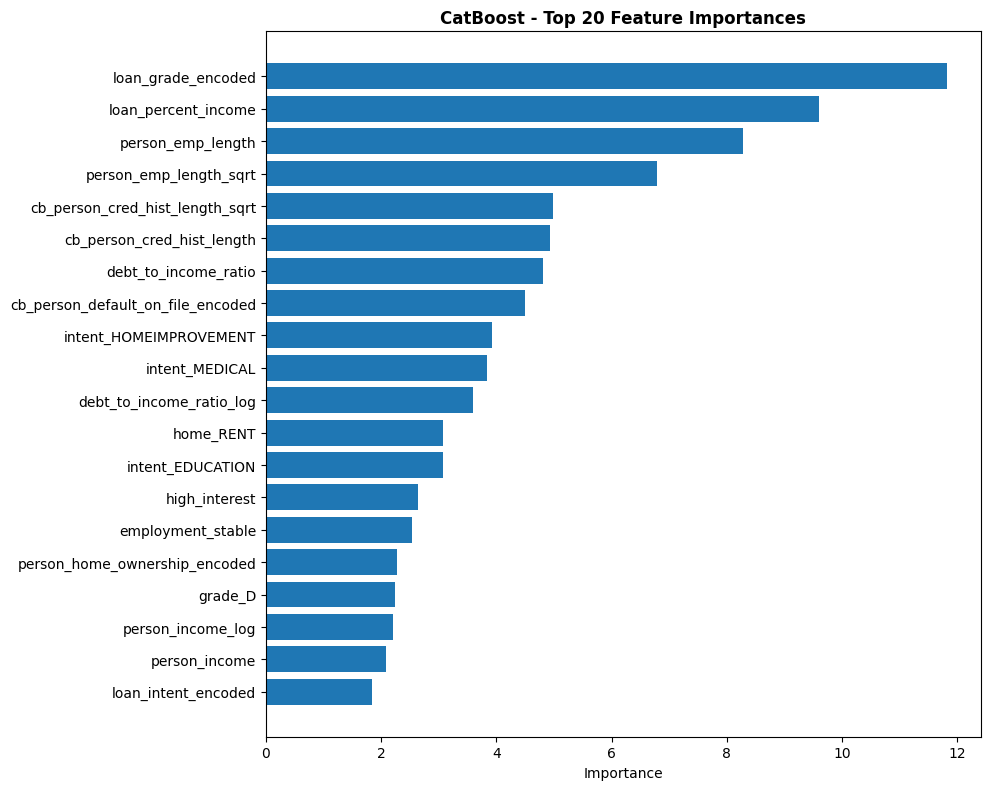
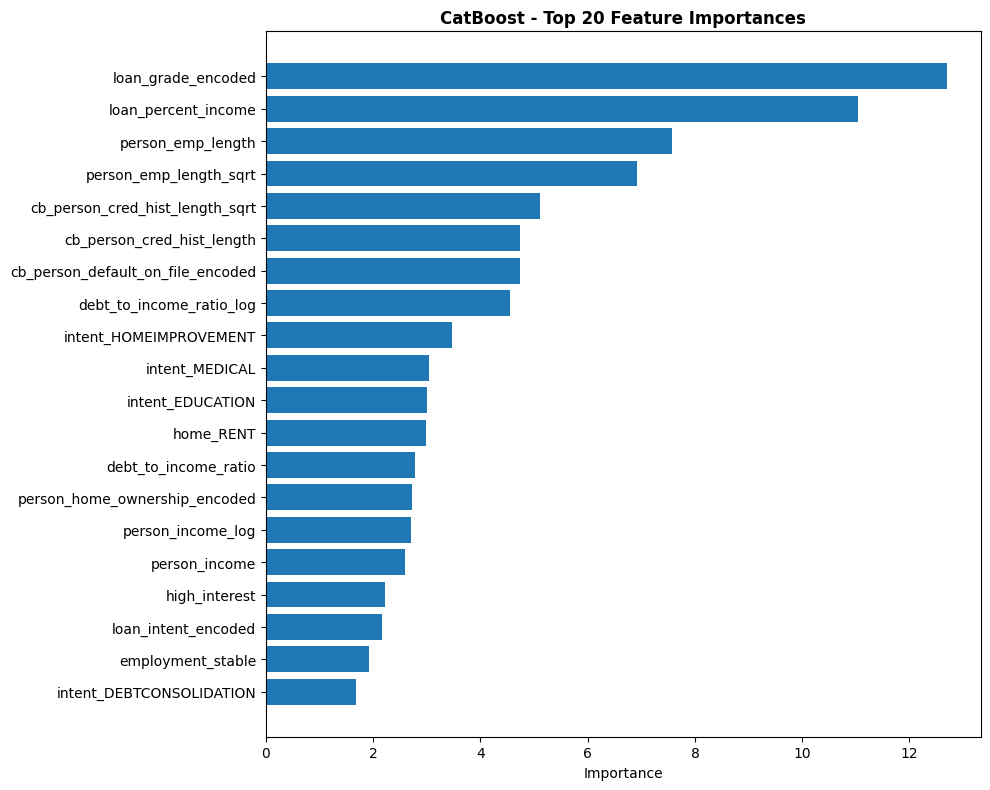
feat: generate traditional ML model visualizations

diff --git a/src/models/visualize_ml_models.py b/src/models/visualize_ml_models.py
@@ -1,0 +1,251 @@
+#!/usr/bin/env python
+"""
+Generate visualizations for traditional ML models (LightGBM, CatBoost, Ensemble)
+Creates plots showing model performance and feature importance
+"""
+
+import pickle
+import warnings
+
+import matplotlib.pyplot as plt
+import numpy as np
+import pandas as pd
+import seaborn as sns
+from imblearn.over_sampling import SMOTE
+from sklearn.metrics import (
+    confusion_matrix,
+    precision_recall_curve,
+    roc_auc_score,
+    roc_curve,
+)
+from sklearn.model_selection import train_test_split
+
+from src.config import IMAGES_ML_DIR, TRAIN_CSV
+from src.models.catboost_model import LoanPredictionSystem as CatBoostSystem
+from src.models.ensemble_model import LoanPredictionEnsemble
+from src.models.lightgbm_model import LoanPredictionSystem as LightGBMSystem
+
+warnings.filterwarnings("ignore")
+
+# Ensure output directory exists
+IMAGES_ML_DIR.mkdir(parents=True, exist_ok=True)
+
+print("=" * 70)
+print("Traditional ML Model Visualizations")
+print("=" * 70)
+print(f"Output directory: {IMAGES_ML_DIR}\n")
+
+# Load training data
+df = pd.read_csv(TRAIN_CSV)
+print(f"Loaded training data: {df.shape}\n")
+
+
+def plot_feature_importance(model, feature_names, model_name, top_n=20):
+    """Plot feature importance for tree-based models"""
+    if hasattr(model, "feature_importances_"):
+        importances = model.feature_importances_
+        indices = np.argsort(importances)[::-1][:top_n]
+
+        plt.figure(figsize=(10, 8))
+        plt.title(f"{model_name} - Top {top_n} Feature Importances", fontweight="bold")
+        plt.barh(range(top_n), importances[indices], align="center")
+        plt.yticks(range(top_n), [feature_names[i] for i in indices])
+        plt.xlabel("Importance")
+        plt.gca().invert_yaxis()
+        plt.tight_layout()
+        filename = f"{model_name.lower().replace(' ', '_')}_feature_importance.png"
+        plt.savefig(IMAGES_ML_DIR / filename, dpi=100, bbox_inches="tight")
+        plt.close()
+        print(f"✓ Saved: {filename}")
+
+
+def plot_roc_curve(y_true, y_pred_proba, model_name):
+    """Plot ROC curve"""
+    fpr, tpr, _ = roc_curve(y_true, y_pred_proba)
+    roc_auc = roc_auc_score(y_true, y_pred_proba)
+
+    plt.figure(figsize=(8, 6))
+    plt.plot(fpr, tpr, color="darkorange", lw=2, label=f"ROC curve (AUC = {roc_auc:.4f})")
+    plt.plot([0, 1], [0, 1], color="navy", lw=2, linestyle="--", label="Random")
+    plt.xlim([0.0, 1.0])
+    plt.ylim([0.0, 1.05])
+    plt.xlabel("False Positive Rate")
+    plt.ylabel("True Positive Rate")
+    plt.title(f"{model_name} - ROC Curve", fontweight="bold")
+    plt.legend(loc="lower right")
+    plt.grid(True, alpha=0.3)
+    plt.tight_layout()
+    filename = f"{model_name.lower().replace(' ', '_')}_roc_curve.png"
+    plt.savefig(IMAGES_ML_DIR / filename, dpi=100, bbox_inches="tight")
+    plt.close()
+    print(f"✓ Saved: {filename}")
+
+
+def plot_precision_recall_curve(y_true, y_pred_proba, model_name):
+    """Plot Precision-Recall curve"""
+    precision, recall, _ = precision_recall_curve(y_true, y_pred_proba)
+
+    plt.figure(figsize=(8, 6))
+    plt.plot(recall, precision, color="blue", lw=2)
+    plt.xlabel("Recall")
+    plt.ylabel("Precision")
+    plt.title(f"{model_name} - Precision-Recall Curve", fontweight="bold")
+    plt.grid(True, alpha=0.3)
+    plt.tight_layout()
+    filename = f"{model_name.lower().replace(' ', '_')}_pr_curve.png"
+    plt.savefig(IMAGES_ML_DIR / filename, dpi=100, bbox_inches="tight")
+    plt.close()
+    print(f"✓ Saved: {filename}")
+
+
+def plot_confusion_matrix(y_true, y_pred, model_name):
+    """Plot confusion matrix"""
+    cm = confusion_matrix(y_true, y_pred)
+
+    plt.figure(figsize=(8, 6))
+    sns.heatmap(
+        cm,
+        annot=True,
+        fmt="d",
+        cmap="Blues",
+        xticklabels=["Denied", "Approved"],
+        yticklabels=["Denied", "Approved"],
+    )
+    plt.title(f"{model_name} - Confusion Matrix", fontweight="bold")
+    plt.ylabel("Actual")
+    plt.xlabel("Predicted")
+    plt.tight_layout()
+    filename = f"{model_name.lower().replace(' ', '_')}_confusion_matrix.png"
+    plt.savefig(IMAGES_ML_DIR / filename, dpi=100, bbox_inches="tight")
+    plt.close()
+    print(f"✓ Saved: {filename}")
+
+
+# 1. LightGBM Visualizations
+print("\n[1/3] Generating LightGBM visualizations...")
+lgbm_system = LightGBMSystem()
+X = lgbm_system.prepare_features(df, fit=True)
+y = df["loan_status"]
+X_train, X_val, y_train, y_val = train_test_split(
+    X, y, test_size=0.2, random_state=42, stratify=y
+)
+X_train_scaled = lgbm_system.scaler.fit_transform(X_train)
+X_val_scaled = lgbm_system.scaler.transform(X_val)
+
+smote = SMOTE(random_state=42, sampling_strategy=0.5)
+X_train_scaled, y_train = smote.fit_resample(X_train_scaled, y_train)
+
+# Initialize and train the model
+from lightgbm import LGBMClassifier
+lgbm_system.model = LGBMClassifier(
+    n_estimators=200,
+    max_depth=7,
+    learning_rate=0.05,
+    random_state=42,
+    verbose=-1,
+)
+lgbm_system.model.fit(X_train_scaled, y_train)
+y_pred = lgbm_system.model.predict(X_val_scaled)
+y_pred_proba = lgbm_system.model.predict_proba(X_val_scaled)[:, 1]
+
+plot_feature_importance(lgbm_system.model, lgbm_system.feature_columns, "LightGBM")
+plot_roc_curve(y_val, y_pred_proba, "LightGBM")
+plot_precision_recall_curve(y_val, y_pred_proba, "LightGBM")
+plot_confusion_matrix(y_val, y_pred, "LightGBM")
+
+# 2. CatBoost Visualizations
+print("\n[2/3] Generating CatBoost visualizations...")
+catboost_system = CatBoostSystem()
+X = catboost_system.prepare_features(df, fit=True)
+y = df["loan_status"]
+X_train_cb, X_val_cb, y_train_cb, y_val_cb = train_test_split(
+    X, y, test_size=0.2, random_state=42, stratify=y
+)
+X_train_scaled_cb = catboost_system.scaler.fit_transform(X_train_cb)
+X_val_scaled_cb = catboost_system.scaler.transform(X_val_cb)
+
+smote = SMOTE(random_state=42, sampling_strategy=0.5)
+X_train_scaled_cb, y_train_cb = smote.fit_resample(X_train_scaled_cb, y_train_cb)
+
+# Initialize and train the model
+from catboost import CatBoostClassifier
+catboost_system.model = CatBoostClassifier(
+    iterations=200,
+    depth=7,
+    learning_rate=0.05,
+    random_state=42,
+    verbose=False,
+)
+catboost_system.model.fit(X_train_scaled_cb, y_train_cb, verbose=False)
+y_pred_cb = catboost_system.model.predict(X_val_scaled_cb)
+y_pred_proba_cb = catboost_system.model.predict_proba(X_val_scaled_cb)[:, 1]
+
+plot_feature_importance(catboost_system.model, catboost_system.feature_columns, "CatBoost")
+plot_roc_curve(y_val_cb, y_pred_proba_cb, "CatBoost")
+plot_precision_recall_curve(y_val_cb, y_pred_proba_cb, "CatBoost")
+plot_confusion_matrix(y_val_cb, y_pred_cb, "CatBoost")
+
+# 3. Ensemble Model Comparison
+print("\n[3/3] Generating Ensemble comparison visualization...")
+ensemble_system = LoanPredictionEnsemble()
+ensemble_system.train(str(TRAIN_CSV), use_smote=True)
+
+# Use the already prepared validation set from LightGBM
+lgbm_proba = y_pred_proba
+cb_proba = y_pred_proba_cb
+
+# Train XGBoost for comparison
+from xgboost import XGBClassifier
+xgb_model = XGBClassifier(
+    n_estimators=200,
+    max_depth=7,
+    learning_rate=0.05,
+    random_state=42,
+    eval_metric='logloss'
+)
+xgb_model.fit(X_train_scaled, y_train)
+xgb_proba = xgb_model.predict_proba(X_val_scaled)[:, 1]
+
+ensemble_proba = (lgbm_proba + cb_proba + xgb_proba) / 3
+
+# Plot comparison of all models
+plt.figure(figsize=(10, 6))
+fpr_lgbm, tpr_lgbm, _ = roc_curve(y_val, lgbm_proba)
+fpr_cb, tpr_cb, _ = roc_curve(y_val_cb, cb_proba)
+fpr_xgb, tpr_xgb, _ = roc_curve(y_val, xgb_proba)
+fpr_ens, tpr_ens, _ = roc_curve(y_val, ensemble_proba)
+
+plt.plot(
+    fpr_lgbm,
+    tpr_lgbm,
+    lw=2,
+    label=f'LightGBM (AUC = {roc_auc_score(y_val, lgbm_proba):.4f})',
+)
+plt.plot(fpr_cb, tpr_cb, lw=2, label=f'CatBoost (AUC = {roc_auc_score(y_val_cb, cb_proba):.4f})')
+plt.plot(fpr_xgb, tpr_xgb, lw=2, label=f'XGBoost (AUC = {roc_auc_score(y_val, xgb_proba):.4f})')
+plt.plot(
+    fpr_ens,
+    tpr_ens,
+    lw=2,
+    label=f'Ensemble (AUC = {roc_auc_score(y_val, ensemble_proba):.4f})',
+    linestyle="--",
+)
+plt.plot([0, 1], [0, 1], color="navy", lw=2, linestyle=":", label="Random")
+
+plt.xlim([0.0, 1.0])
+plt.ylim([0.0, 1.05])
+plt.xlabel("False Positive Rate")
+plt.ylabel("True Positive Rate")
+plt.title("Model Comparison - ROC Curves", fontweight="bold")
+plt.legend(loc="lower right")
+plt.grid(True, alpha=0.3)
+plt.tight_layout()
+plt.savefig(IMAGES_ML_DIR / "model_comparison_roc.png", dpi=100, bbox_inches="tight")
+plt.close()
+print("✓ Saved: model_comparison_roc.png")
+
+print("\n" + "=" * 70)
+print("All traditional ML visualizations generated successfully!")
+print(f"Total plots saved: 13")
+print(f"Location: {IMAGES_ML_DIR}")
+print("=" * 70)
